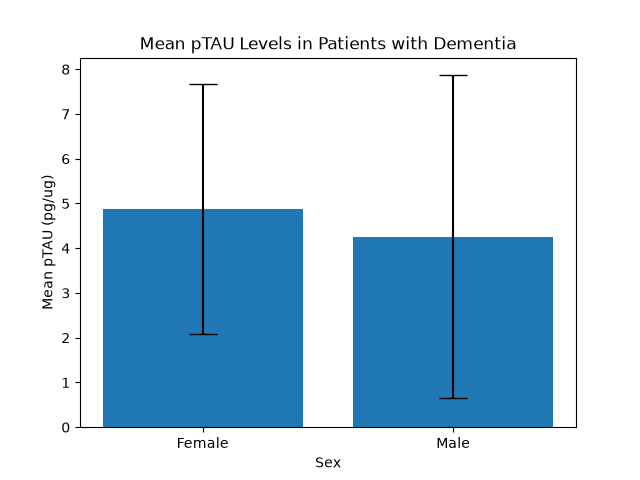
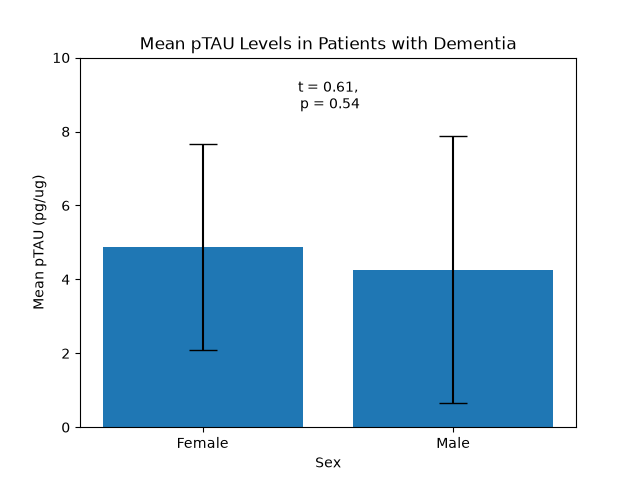
Final Notebook Additions and Last Minute Changes
Finished the remaining fields of the notebook, including adding the citations of the background section (done by Aloniab), finishing the conclusions, ethical implications, future work, and limitations.
Did last minute changes to the code to include lines of best fit of the scatterplots that were missing one.

diff --git a/main/main.py b/main/main.py
@@ -139,11 +139,22 @@ stdevs = [female_stdev, male_stdev]
 t_stat, p_val = stats.ttest_ind(ptau_female, ptau_male)
 print(f't-stat = {t_stat}, p_val = {p_val}')
 
+# truncating t-value and p-values up to 2 decimal places
+t_stat = math.trunc(t_stat * 100) / 100
+p_val = math.trunc(p_val * 100) / 100
+
 # creating bar graph
+plt.ylim(0, 10)
 plt.bar(groups, means, yerr=stdevs, capsize=10)
 plt.xlabel("Sex")
 plt.ylabel("Mean pTAU (pg/ug)")
 plt.title("Mean pTAU Levels in Patients with Dementia")
+plt.text(
+        0.5, 8.5,
+        f"t = {t_stat},\n p = {p_val}",
+        ha = 'center',
+        va = 'bottom'
+        )
 
 # saves the resulting bar graph as a .png file
 plt.savefig("ptau_bar_graph.png")
@@ -160,14 +171,25 @@ for patient in Patient.all_patients:
     ages.append(patient.get_age())
     ptau_values.append(patient.get_ptau())
 
-# creates the scatter plot
+model.fit(np.array(ages).reshape(-1, 1), ptau_values)
+slope = model.coef_[0]
+intercept = model.intercept_
+r2 = model.score(np.array(ages).reshape(-1, 1), ptau_values)
+equation = f"y = {slope:.2f}x + {intercept:.2f}\nR^2 = {r2:.2f}"
+
+# creates the scatterplot
+plt.ylim(min(ptau_values),max(ptau_values) + 3)
 plt.scatter(np.array(ages).reshape(-1, 1), ptau_values)
 plt.xlabel("Age at Death")
 plt.ylabel("pTAU (pg/ug)")
 plt.title("pTAU Levels vs. Age at Death")
 
+# linear regression related
+plt.text(statistics.mean(ages), max(ptau_values) + 2, equation, color = "blue", fontsize = 12, verticalalignment = "top")
+plt.plot(np.array(ages).reshape(-1, 1), model.predict(np.array(ages).reshape(-1, 1)), color = "blue")
+
 # saves the resulting bar graph as a .png file
-plt.savefig("ptau_scatter_plot.png") #save the graph as a png file
+plt.savefig("ptau_versus_ageofdeath_scatter_plot.png") #save the graph as a png file
 
 # outputs the resulting bar graph
 plt.show()
@@ -219,7 +241,7 @@ plt.scatter(a, b, s = 5, color='red')
 plt.scatter(x, y, s = 5, color='blue')
 plt.xlabel('Fraction of ABeta42 to Total ABeta')
 plt.ylabel('Fraction of pTAU to tTAU')
-plt.title('Scatter Plot Fraction of ABeta versus TAU')
+plt.title('Scatterplot Fraction of ABeta versus TAU')
 plt.xlim(0, xlim)
 plt.ylim(0, ylim)
 
@@ -241,109 +263,11 @@ equation = f"y = {slope:.2f}x + {intercept:.2f}\nR^2 = {r2:.2f}"
 plt.text(xlim * .6, ylim * 0.95, equation, color = "blue", fontsize = 12, verticalalignment = "top")
 plt.plot(x_reg, model.predict(x_reg), color = "blue")
 
-# outputs the resulting scatterplot
-plt.show()
-
 # saves the scatterplot as a .png
 plt.savefig("abeta_versus_tau_ratios_scatterplot.png")
 
-# ABeta42 Analysis from Class
-# creates lists of four groups, based on sex and cognitive state
-ABeta42_health_fem_vals = []
-ABeta42_health_male_vals = []
-ABeta42_diseased_fem_vals = []
-ABeta42_diseased_male_vals = []
-
-# filters through all_patients and adds a patient's ABeta42 level based on sex and cognitive
-for patient in Patient.filter(Patient.all_patients, sex = "F", cog_stat = "No dementia"):
-    ABeta42_health_fem_vals.append(patient.get_ab42())
-
-for patient in Patient.filter(Patient.all_patients, sex = "M", cog_stat = "No dementia"):
-    ABeta42_health_male_vals.append(patient.get_ab42())
-
-for patient in Patient.filter(Patient.all_patients, sex = "F", cog_stat = "Dementia"):
-    ABeta42_diseased_fem_vals.append(patient.get_ab42())
-
-for patient in Patient.filter(Patient.all_patients, sex = "M", cog_stat = "Dementia"):
-    ABeta42_diseased_male_vals.append(patient.get_ab42())
-
-# creates the bars for the bar graph based on the mean ABeta42 level in each group
-x_health_fem_bar = (statistics.mean(ABeta42_health_fem_vals))
-x_health_male_bar = (statistics.mean(ABeta42_health_male_vals))
-x_diseased_fem_bar = (statistics.mean(ABeta42_diseased_fem_vals))
-x_diseased_male_bar = (statistics.mean(ABeta42_diseased_male_vals))
-
-#c alculates the stdev within each group
-ABeta_health_fem_stdev = (statistics.stdev(ABeta42_health_fem_vals))
-ABeta_health_male_stdev = (statistics.stdev(ABeta42_health_male_vals))
-ABeta_diseased_fem_stdev = (statistics.stdev(ABeta42_diseased_fem_vals))
-ABeta_diseased_male_stdev = (statistics.stdev(ABeta42_diseased_male_vals))
-
-# prints the means and stdevs of each group
-print(f'x_bar = {x_health_fem_bar}, ABeta_stdev {ABeta_health_fem_stdev}')
-print(f'x_bar = {x_health_male_bar}, ABeta_stdev {ABeta_health_male_stdev}')
-print(f'x_bar = {x_diseased_fem_bar}, ABeta_stdev {ABeta_diseased_fem_stdev}')
-print(f'x_bar = {x_diseased_male_bar}, ABeta_stdev {ABeta_diseased_male_stdev}')
-
-# creates lists needed to label and create the bar graph
-sex_cols = ['Healthy Female', 'Healthy Male', 'Diseased Female', 'Diseased Male']
-
-mean_sex_ABeta42 = [
-    x_health_fem_bar,
-    x_health_male_bar,
-    x_diseased_fem_bar,
-    x_diseased_male_bar
-]
-
-stdev_sex_ABeta42 = [
-    ABeta_health_fem_stdev,
-    ABeta_health_male_stdev,
-    ABeta_diseased_fem_stdev,
-    ABeta_diseased_male_stdev
-]
-
-colors = ["red", "blue", "pink", "skyblue"]
-yerr = [np.zeros(len(mean_sex_ABeta42)), stdev_sex_ABeta42]
-
-# Runs a one-way ANOVA
-f_stat, p_value = stats.f_oneway(
-    ABeta42_health_fem_vals,
-    ABeta42_health_male_vals,
-    ABeta42_diseased_fem_vals,
-    ABeta42_diseased_male_vals
-)
-
-# prints the f-stat and p value
-print("F-statistic:", f_stat)
-print("p-value:", p_value)
-
-# creates bar graph
-plt.text(
-    1.5,
-    380,
-    f"One-Way-ANOVA: p = {p_value:.3f}",
-    ha='right',
-    va='top',
-    fontsize=12
-)
-
-plt.bar(
-    sex_cols,
-    mean_sex_ABeta42,
-    yerr=yerr,
-    capsize=10,
-    color=["red", "blue", "pink", "skyblue"]
-)
-
-plt.title("ABeta42 Levels")
-plt.xlabel("Sex and Health Status")
-plt.ylabel("Abeta42")
-
-# outputs the resulting bar graph
+# outputs the resulting scatterplot
 plt.show()
-
-# saves the bar graph as a .png file
-plt.savefig("sex_and_cog_status_bar_graph")
 
 # creates empty lists for pTAU and MMSE
 ptau_mmse = []
@@ -406,7 +330,7 @@ plt.text(
 )
 
 # saves the scatterplot as a .png file
-plt.savefig("ptau_vs_mmse_regression.png")
+plt.savefig("ptau_vs_mmse_scatterplot.png")
 
 # outputs the resulting scatterplot
 plt.show()
